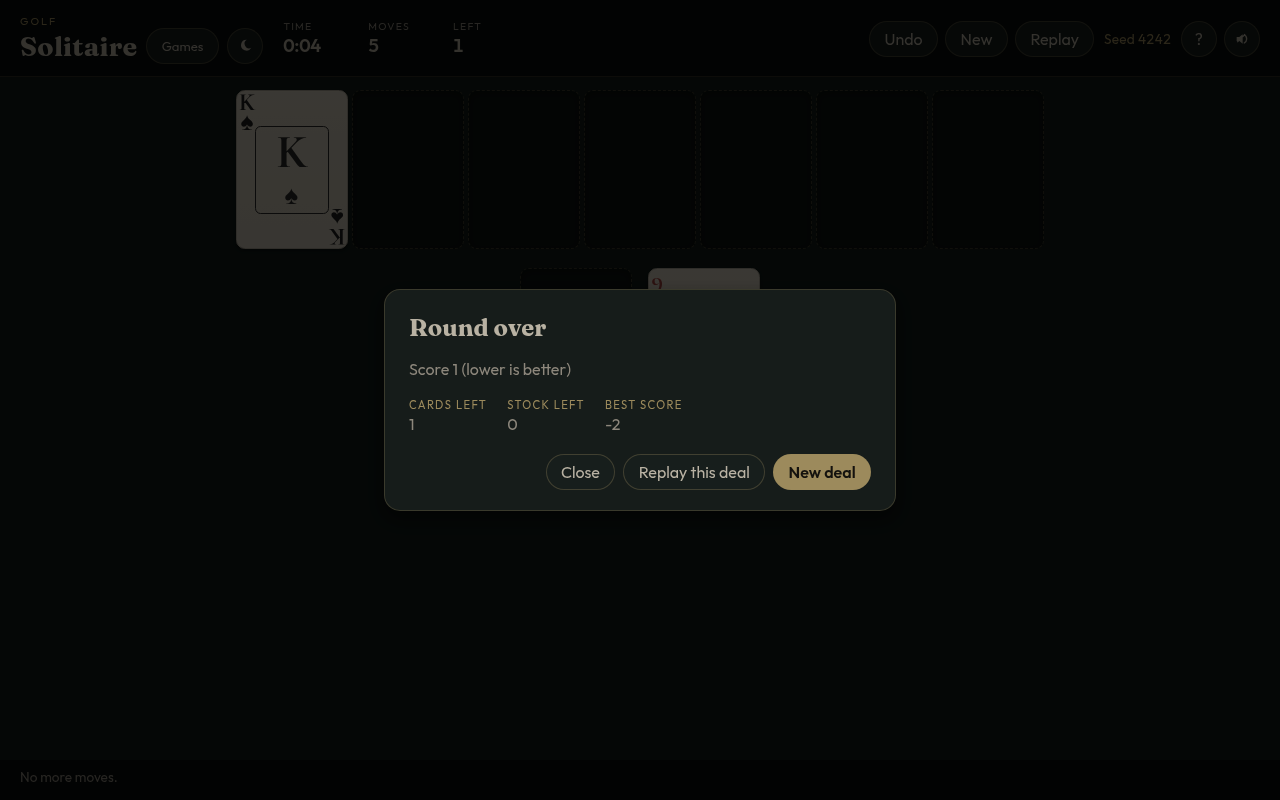
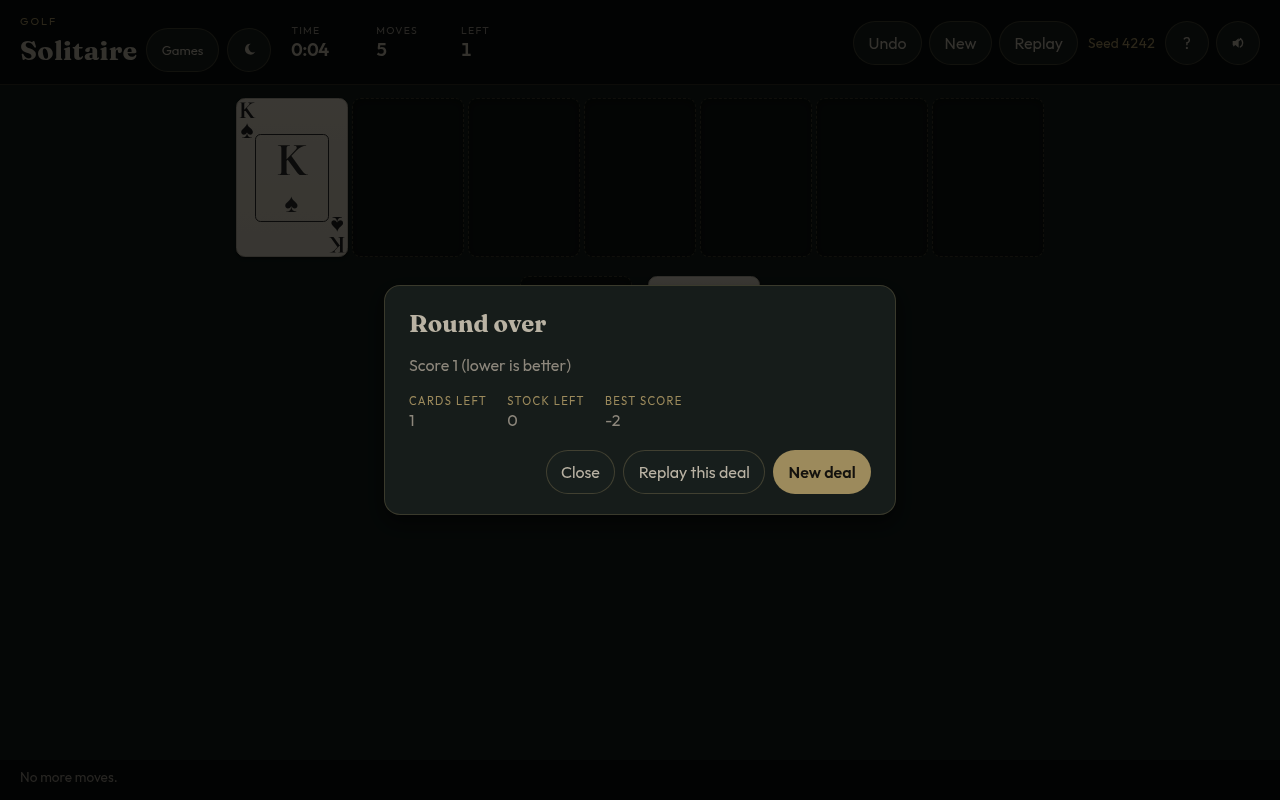
Fix board scrollbar, tap-move status line, and 44px touch targets
- Use overflow-x: clip so the board and table stop becoming vertical scrollers
- Klondike and FreeCell set a status line after every successful move
- Header and toolbar buttons are at least 44px tall; the board fit reads the live header height
- Browser test checks for scrollbars, status updates, and button size

diff --git a/src/ui-freecell.js b/src/ui-freecell.js
@@ -175,7 +175,11 @@ export function mount() {
     const headerH = document.querySelector(".topbar")?.offsetHeight ?? 0;
     const statusH = document.querySelector(".status")?.offsetHeight ?? 0;
     const topH = board.querySelector(".fc-top")?.offsetHeight || cardH;
-    const availH = window.innerHeight - headerH - statusH - topH - 28;
+    const table = root.table;
+    const ts = table ? getComputedStyle(table) : null;
+    const padY = ts ? (parseFloat(ts.paddingTop) || 0) + (parseFloat(ts.paddingBottom) || 0) : 0;
+    const gap = parseFloat(getComputedStyle(board).rowGap) || 0;
+    const availH = window.innerHeight - headerH - statusH - topH - padY - gap - 4;
     let peek = Math.round(cardW * 0.34);
     if (longest > 1) {
       const room = Math.floor((availH - cardH) / (longest - 1));
@@ -320,7 +324,21 @@ export function mount() {
     setStatus(`Deal #${dealNumber}.`);
   }
 
-  function commit(result) {
+  function statusForSuccess(result, from, to) {
+    const count = from?.count ?? 1;
+    const auto = result.autoMoved ?? 0;
+    let msg;
+    if (to?.zone === "freecell") msg = "Moved to a free cell.";
+    else if (to?.zone === "foundation") msg = "Moved to the foundation.";
+    else if (count > 1) msg = `Moved ${count} cards.`;
+    else if (to?.zone === "cascade" && Number.isInteger(to.index)) msg = `Moved to column ${to.index + 1}.`;
+    else msg = "Moved the card.";
+    if (auto === 1) msg += " Auto-played a card.";
+    else if (auto > 1) msg += ` Auto-played ${auto} cards.`;
+    return msg;
+  }
+
+  function commit(result, from, to) {
     if (!result.ok) {
       sounds.illegal(session.muted);
       setStatus("That card cannot move there.");
@@ -347,12 +365,15 @@ export function mount() {
       sounds.win(session.muted);
       showWin();
       setStatus("All cards are home.");
+    } else {
+      setStatus(statusForSuccess(result, from, to));
     }
     return true;
   }
 
   function tryMove(from, to) {
-    return commit(userMove(session.state, { ...from, count: from.count ?? 1 }, to));
+    const src = { ...from, count: from.count ?? 1 };
+    return commit(userMove(session.state, src, to), src, to);
   }
 
   function doDouble(from) {
@@ -360,7 +381,7 @@ export function mount() {
     const single = { zone: from.zone, index: from.index, count: 1 };
     const toFoundation = userMove(session.state, single, { zone: "foundation" });
     if (toFoundation.ok) {
-      commit(toFoundation);
+      commit(toFoundation, single, { zone: "foundation" });
       return;
     }
     if (from.zone === "freecell") {
@@ -377,7 +398,7 @@ export function mount() {
       return;
     }
     const toCell = userMove(session.state, single, { zone: "freecell", index });
-    if (!commit(toCell)) setStatus("That card cannot move there.");
+    if (!commit(toCell, single, { zone: "freecell", index })) setStatus("That card cannot move there.");
   }
 
   function doUndo() {
@@ -480,7 +501,7 @@ export function mount() {
     if (cardEl?.classList.contains("playable")) {
       session.selected = loc;
       render();
-      setStatus("Tap a destination, or drag the card.");
+      setStatus("Choose a destination, or drag the card.");
       return;
     }
     if (session.selected) tryMove(session.selected, dest);
@@ -640,7 +661,7 @@ export function mount() {
         setStatus("That card cannot move there.");
         return result;
       }
-      commit(result);
+      commit(result, from, to);
       return { ok: true, state: session.state };
     },
     historyLength: () => session.history.length,

diff --git a/src/styles.css b/src/styles.css
@@ -204,7 +204,7 @@ html[data-theme="classic"] #app {
 
 .home-btn,
 .theme-btn {
-  min-height: 36px;
+  min-height: 44px;
 }
 
 .home-btn {
@@ -267,7 +267,7 @@ html[data-theme="classic"] #app {
   border: 1px solid var(--btn-border);
   border-radius: 999px;
   padding: 0.42rem 0.9rem;
-  min-height: 36px;
+  min-height: 44px;
   color: var(--text);
 }
 
@@ -301,7 +301,8 @@ html[data-theme="classic"] #app {
 .segmented button {
   border: 0;
   background: transparent;
-  min-width: 36px;
+  min-width: 44px;
+  min-height: 44px;
   padding: 0.32rem 0.7rem;
 }
 
@@ -312,9 +313,10 @@ html[data-theme="classic"] #app {
 }
 
 .icon-btn {
-  width: 36px;
-  height: 36px;
-  min-width: 36px;
+  width: 44px;
+  height: 44px;
+  min-width: 44px;
+  min-height: 44px;
   padding: 0;
   display: grid;
   place-items: center;
@@ -325,7 +327,8 @@ html[data-theme="classic"] #app {
   min-width: 0;
   max-width: 100%;
   padding: 1.1rem 1.25rem 0.5rem;
-  overflow-x: hidden;
+  overflow-x: clip;
+  overflow-y: visible;
   touch-action: manipulation;
 }
 
@@ -336,7 +339,8 @@ html[data-theme="classic"] #app {
   max-width: 72rem;
   min-width: 0;
   margin: 0 auto;
-  overflow-x: hidden;
+  overflow-x: clip;
+  overflow-y: visible;
 }
 
 .row {
@@ -792,13 +796,14 @@ body[data-game="freecell"] {
   --card-h: calc(var(--card-w) * 1.42);
   --col-gap: 4px;
   --fc-peek: 14px;
-  overflow-x: hidden;
+  overflow-x: clip;
 }
 
 body[data-game="freecell"] #app,
 body[data-game="freecell"] .table,
 body[data-game="freecell"] .board {
-  overflow-x: hidden;
+  overflow-x: clip;
+  overflow-y: visible;
   max-width: 100%;
 }
 
@@ -854,13 +859,14 @@ body[data-game="golf"] {
   --card-h: calc(var(--card-w) * 1.42);
   --col-gap: 4px;
   --golf-peek: 18px;
-  overflow-x: hidden;
+  overflow-x: clip;
 }
 
 body[data-game="golf"] #app,
 body[data-game="golf"] .table,
 body[data-game="golf"] .board {
-  overflow-x: hidden;
+  overflow-x: clip;
+  overflow-y: visible;
   max-width: 100%;
   min-width: 0;
 }
@@ -964,14 +970,18 @@ body[data-game="golf"] #drag-layer .ghost .card {
     flex: 1 1 100%;
     margin-left: 0;
     width: 100%;
-    flex-wrap: nowrap;
+    flex-wrap: wrap;
     gap: 0.25rem;
   }
 
   .toolbar .btn,
   .segmented button {
-    padding: 0 0.45rem;
+    padding: 0 0.4rem;
     font-size: 0.78rem;
+  }
+
+  .home-btn {
+    padding: 0 0.55rem;
   }
 
   .long {
@@ -1018,11 +1028,21 @@ body[data-game="golf"] #drag-layer .ghost .card {
   }
 
   .topbar {
+    gap: 0.3rem 0.4rem;
     padding:
-      calc(0.35rem + env(safe-area-inset-top))
-      calc(0.4rem + env(safe-area-inset-right))
-      0.35rem
-      calc(0.4rem + env(safe-area-inset-left));
+      calc(0.3rem + env(safe-area-inset-top))
+      calc(0.3rem + env(safe-area-inset-right))
+      0.3rem
+      calc(0.3rem + env(safe-area-inset-left));
+  }
+
+  .brand-row {
+    gap: 0.35rem;
+  }
+
+  .home-btn {
+    padding: 0 0.45rem;
+    font-size: 0.78rem;
   }
 
   .board {

diff --git a/src/ui.js b/src/ui.js
@@ -294,6 +294,14 @@ export function mount() {
     return height;
   }
 
+  function verticalChrome(board) {
+    const table = root.table;
+    const ts = table ? getComputedStyle(table) : null;
+    const padY = ts ? (parseFloat(ts.paddingTop) || 0) + (parseFloat(ts.paddingBottom) || 0) : 0;
+    const gap = board ? parseFloat(getComputedStyle(board).rowGap) || 0 : 0;
+    return padY + gap;
+  }
+
   function fit() {
     const board = root.table?.querySelector(".board");
     if (!board || !session.state) return;
@@ -308,7 +316,7 @@ export function mount() {
     const headerH = document.querySelector(".topbar")?.offsetHeight ?? 0;
     const statusH = document.querySelector(".status")?.offsetHeight ?? 0;
     const topH = board.querySelector(".row.top")?.offsetHeight || cardH;
-    const avail = window.innerHeight - headerH - statusH - topH - 36;
+    const avail = window.innerHeight - headerH - statusH - topH - verticalChrome(board) - 4;
     const fits = (up, down) =>
       session.state.tableau.every((pile) => pileHeight(pile, cardH, up, down) <= avail);
     if (avail > cardH && !fits(peekUp, peekDown)) {
@@ -477,7 +485,16 @@ export function mount() {
     }
   }
 
-  function commit(result, sound) {
+  function statusForSuccess(result, to) {
+    if (result.recycled) return "Recycled the waste.";
+    if (result.drawn != null) return "Drew from the stock.";
+    if (result.flipped) return "Card turned over.";
+    if (to?.zone === "foundation" || result.foundationIndex != null) return "Moved to the foundation.";
+    if (to?.zone === "tableau" && Number.isInteger(to.index)) return `Moved to column ${to.index + 1}.`;
+    return "Moved the card.";
+  }
+
+  function commit(result, sound, to) {
     if (!result.ok) {
       sounds.illegal(session.muted);
       setStatus("That card cannot move there.");
@@ -501,12 +518,14 @@ export function mount() {
       sounds.win(session.muted);
       showWin();
       setStatus("All four foundations complete.");
+    } else {
+      setStatus(statusForSuccess(result, to));
     }
     return true;
   }
 
   function tryMove(from, to) {
-    return commit(moveCards(session.state, from, to), "place");
+    return commit(moveCards(session.state, from, to), "place", to);
   }
 
   function doDraw() {
@@ -651,7 +670,7 @@ export function mount() {
     if (cardEl?.classList.contains("playable")) {
       session.selected = loc;
       render();
-      setStatus("Click a destination, or drag the card.");
+      setStatus("Choose a destination, or drag the card.");
     }
   }
 
@@ -807,7 +826,7 @@ export function mount() {
         nudgeBoard();
         return result;
       }
-      commit(result, "place");
+      commit(result, "place", to);
       return { ok: true, state: session.state };
     },
     historyLength: () => session.history.length,

diff --git a/src/ui-golf.js b/src/ui-golf.js
@@ -174,7 +174,12 @@ export function mount() {
     const longest = Math.max(1, ...session.state.columns.map((pile) => pile.length));
     const headerH = document.querySelector(".topbar")?.offsetHeight ?? 0;
     const statusH = document.querySelector(".status")?.offsetHeight ?? 0;
-    const avail = window.innerHeight - headerH - statusH - cardH - 56;
+    const table = root.table;
+    const ts = table ? getComputedStyle(table) : null;
+    const padY = ts ? (parseFloat(ts.paddingTop) || 0) + (parseFloat(ts.paddingBottom) || 0) : 0;
+    const gap = parseFloat(getComputedStyle(board).rowGap) || 0;
+    const bottomH = board.querySelector(".golf-bottom")?.offsetHeight || cardH;
+    const avail = window.innerHeight - headerH - statusH - bottomH - padY - gap - 4;
     let peek = Math.round(cardW * 0.56);
     if (longest > 1) {
       const room = Math.floor((avail - cardH) / (longest - 1));
